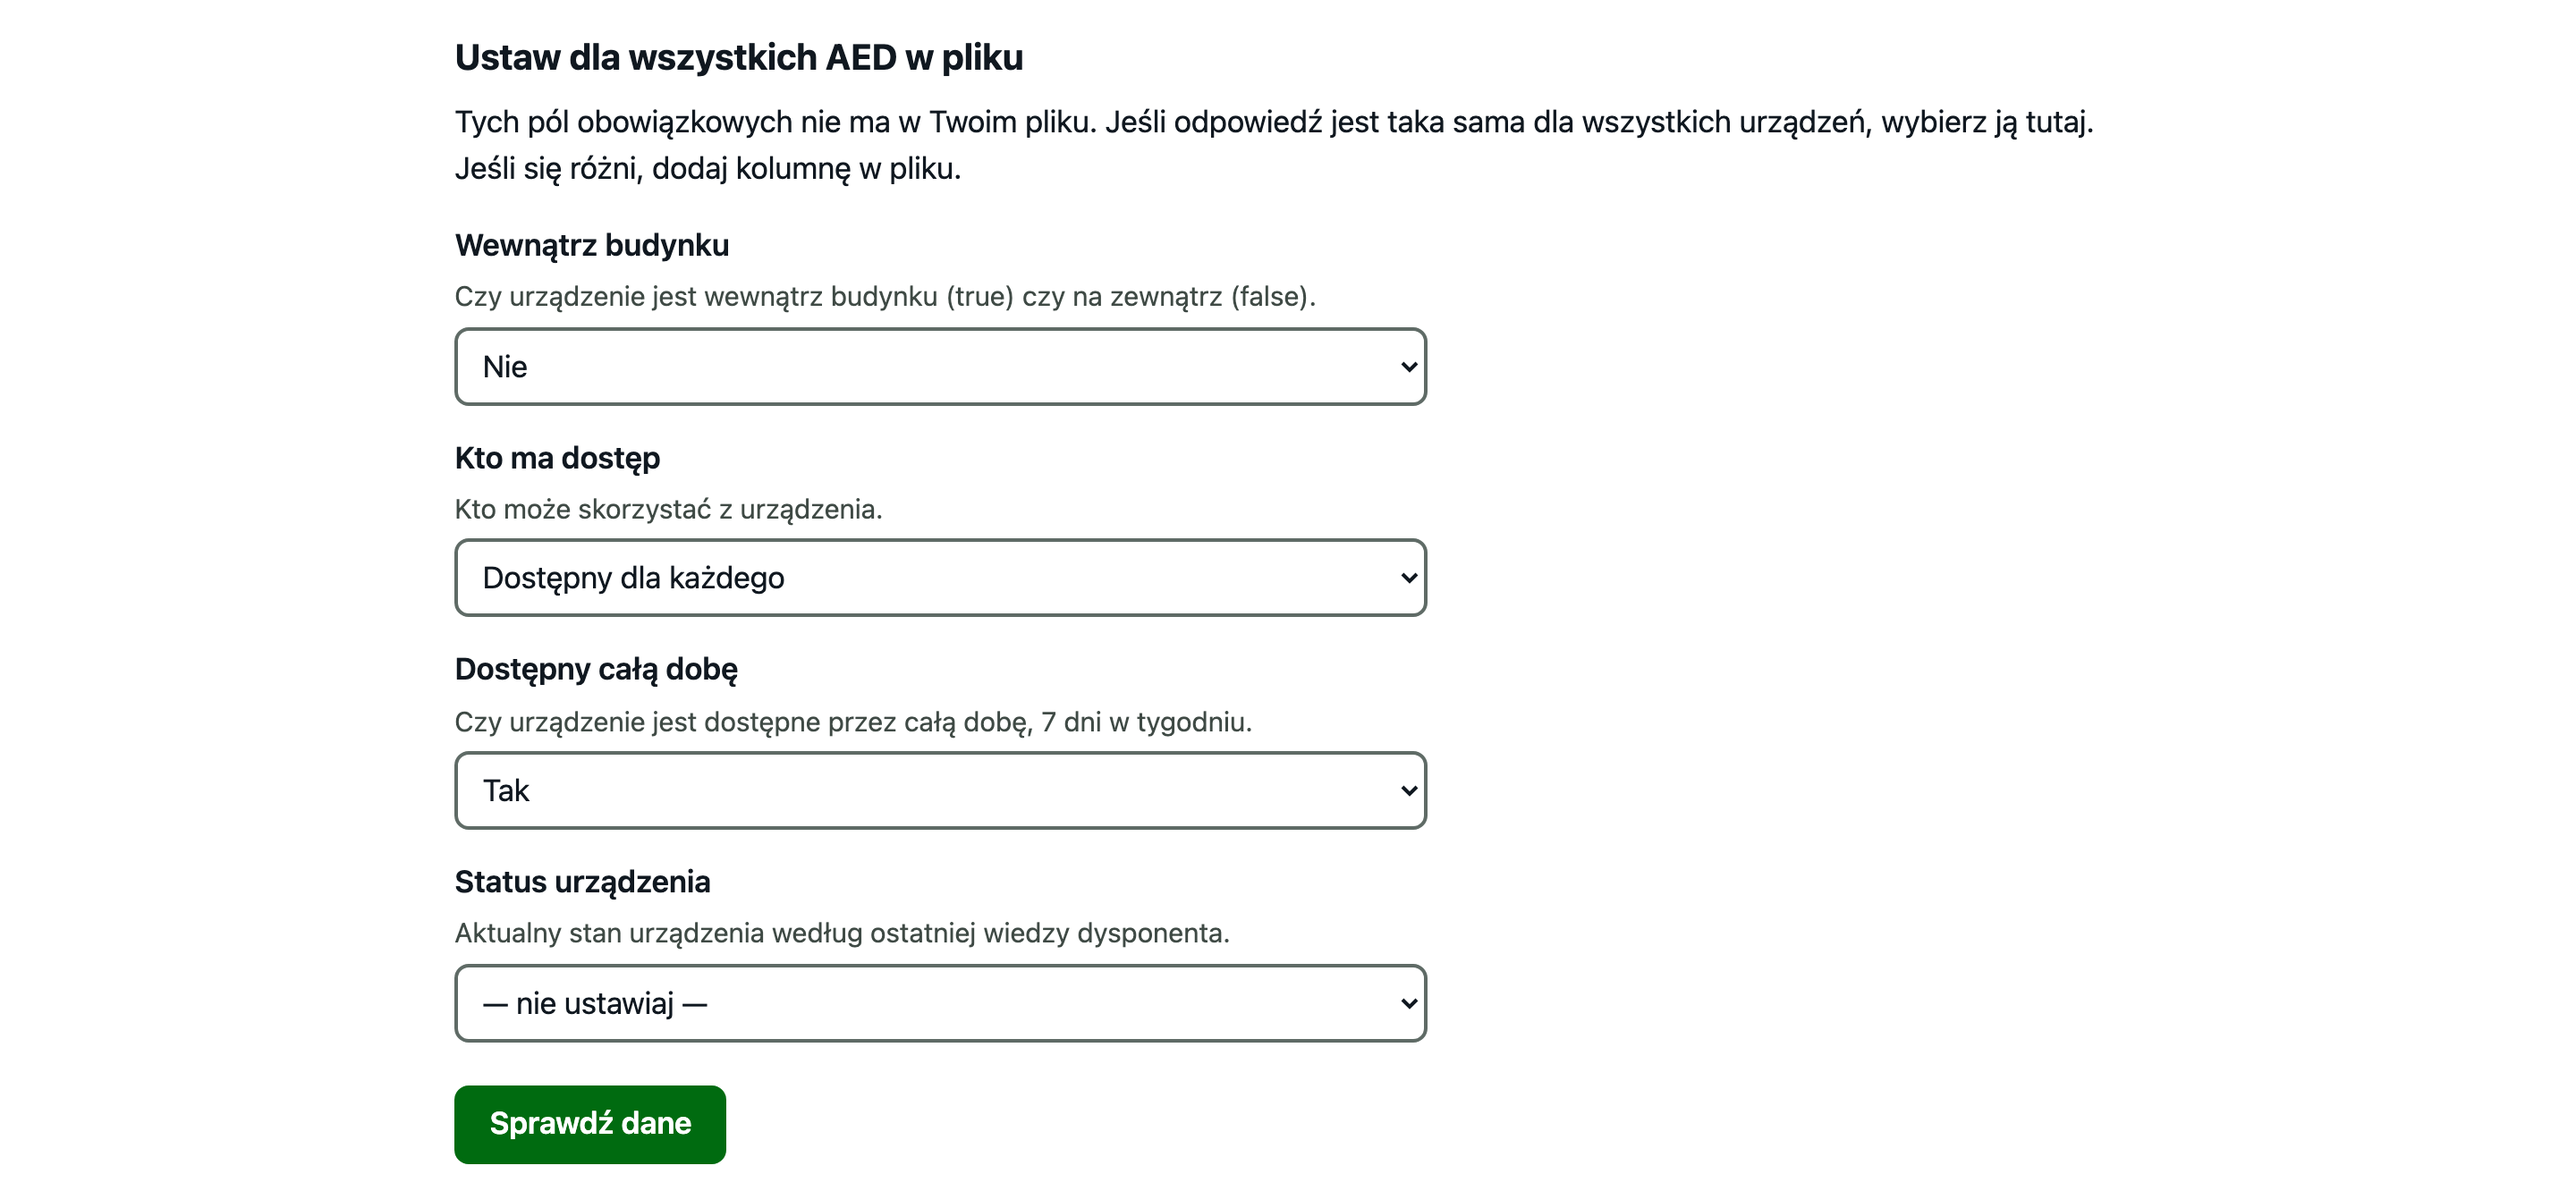
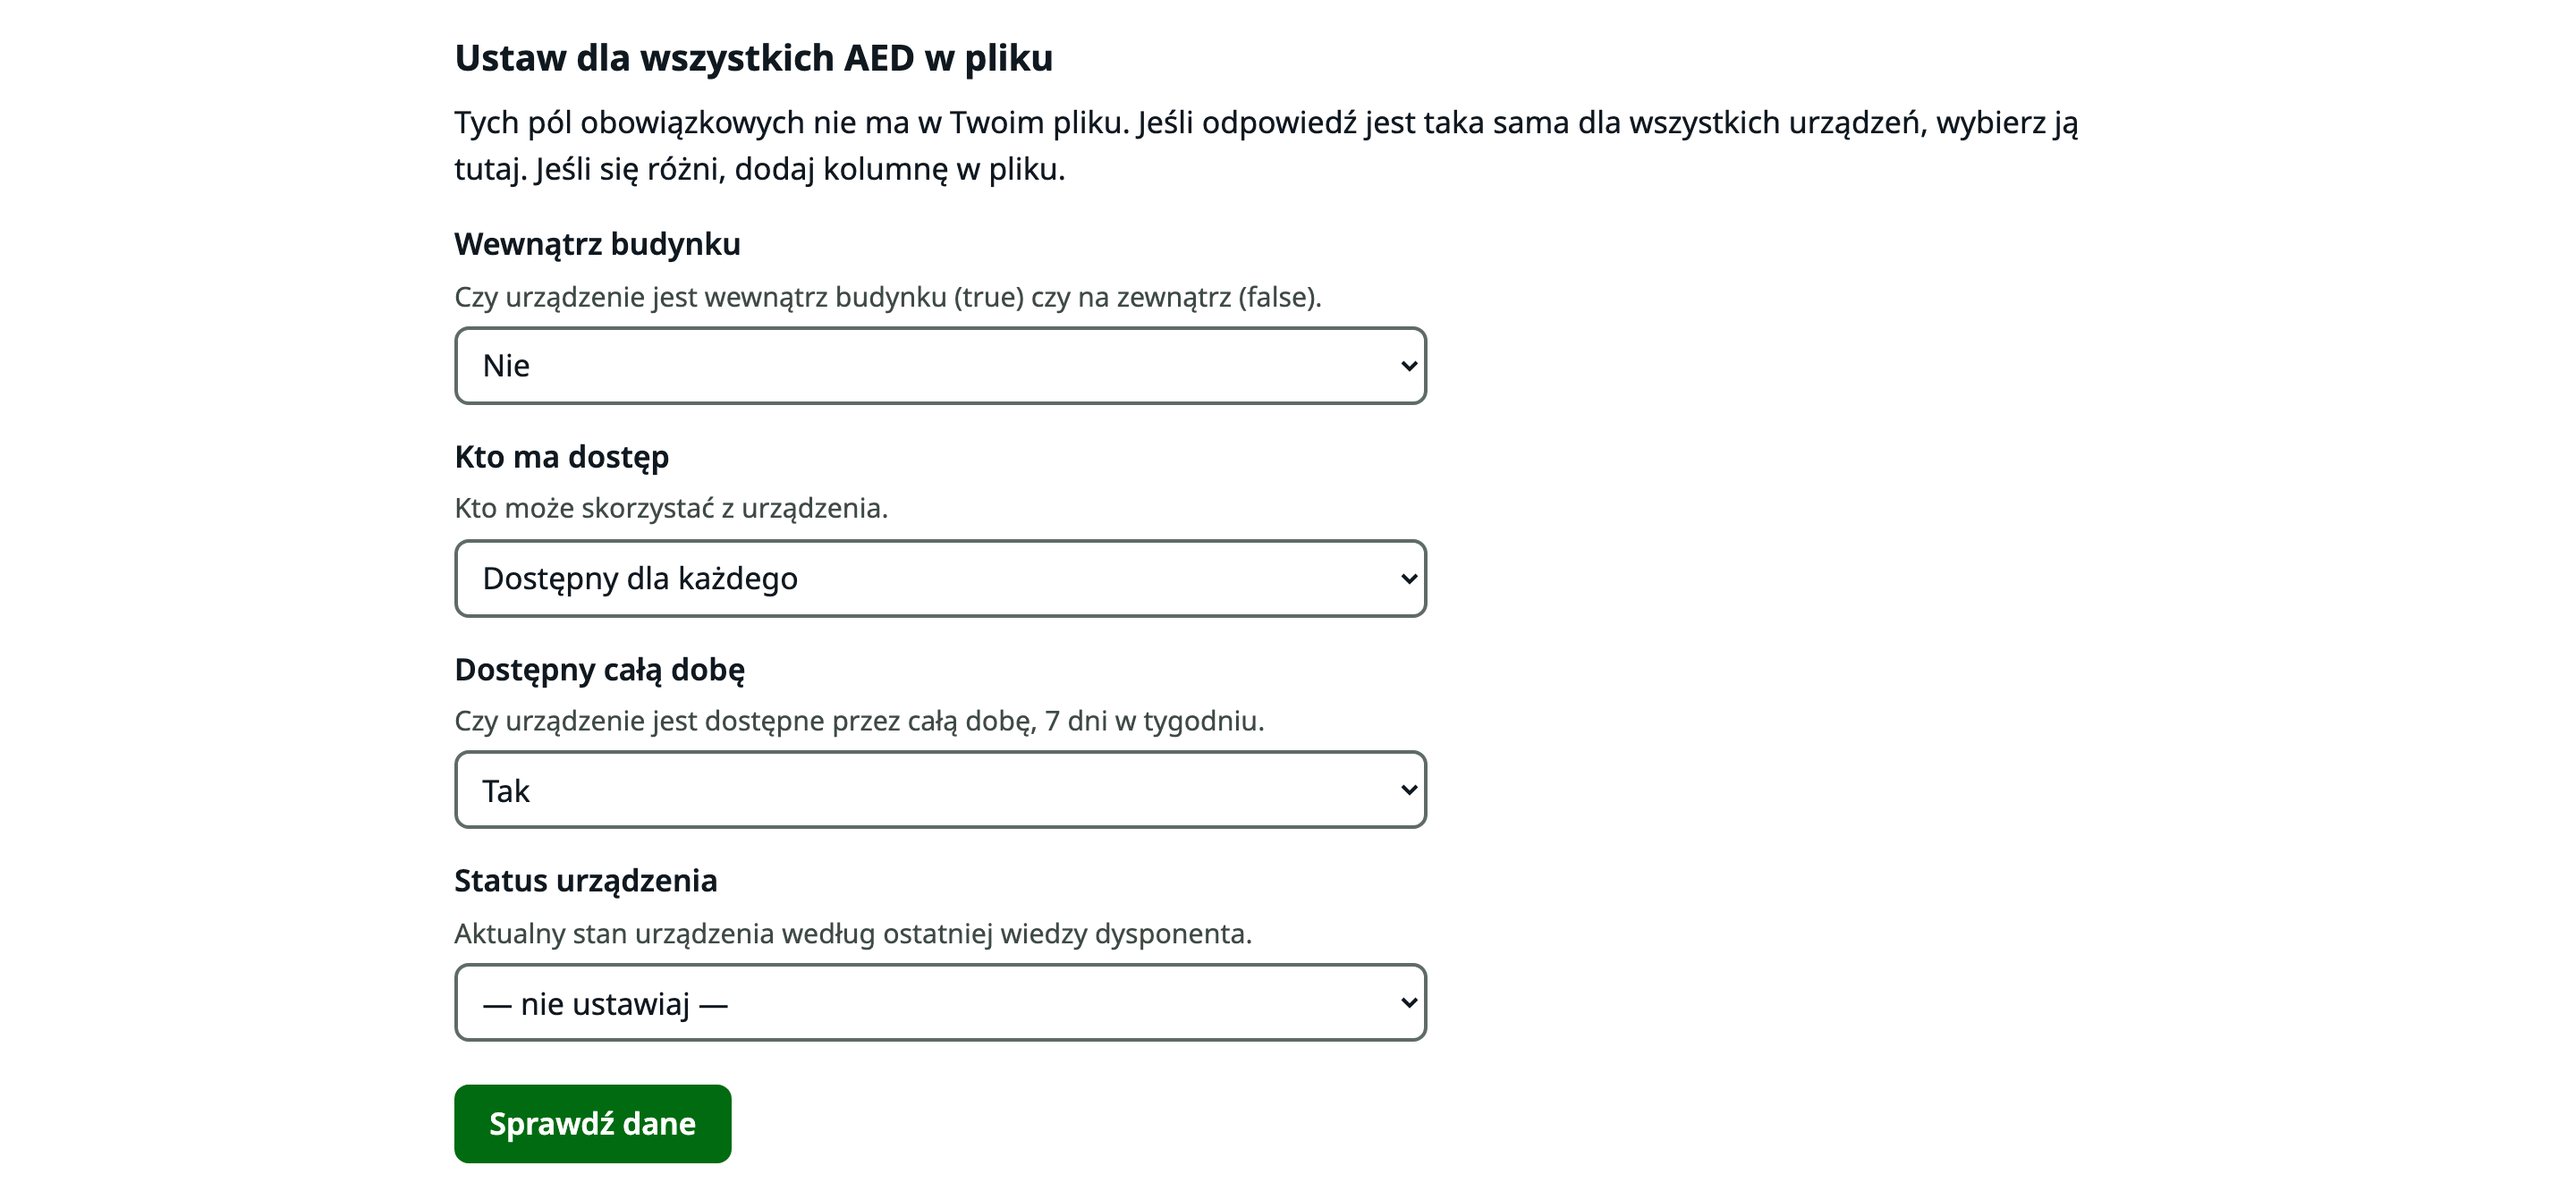
JURY.md: przebieg kontrolny jak juror (linki, demo, krok 0, pokaz scalania); poprawki: BASE_URL i Python 3.12 w kroku 0, nowe UI (nawigacja, Wykaz AED w kroku 3, /dane), ponowne wartości stałe w 1.9; zrzuty odświeżone + 10-mapa, 10-dane

diff --git a/prezentacja/zrzuty/zrob_zrzuty_strony.py b/prezentacja/zrzuty/zrob_zrzuty_strony.py
@@ -1,0 +1,39 @@
+"""E1: zrzuty stron dla odbiorców (/mapa, /dane) z publicznego demo. Niczego nie publikuje.
+
+    /tmp/pw/bin/python prezentacja/zrzuty/zrob_zrzuty_strony.py [--url https://tuaed.wkrynski.dev]
+"""
+
+from __future__ import annotations
+
+import argparse
+import sys
+from pathlib import Path
+
+from playwright.sync_api import sync_playwright
+
+sys.path.insert(0, str(Path(__file__).resolve().parent))
+from zrob_zrzuty import Zrzuty  # noqa: E402
+
+
+def main():
+    ap = argparse.ArgumentParser()
+    ap.add_argument("--url", default="https://tuaed.wkrynski.dev")
+    baza = ap.parse_args().url.rstrip("/")
+    with sync_playwright() as pw:
+        przegl = pw.chromium.launch(args=["--lang=pl-PL"])
+        page = przegl.new_context(viewport={"width": 1440, "height": 900}, locale="pl-PL", device_scale_factor=2).new_page()
+        z = Zrzuty(page)
+        page.goto(baza + "/mapa")
+        page.locator(".leaflet-marker-icon, .marker-cluster").first.wait_for(timeout=60_000)
+        page.wait_for_timeout(1500)
+        z.zrob("10-mapa", pelna=False)
+        page.goto(baza + "/dane")
+        page.get_by_role("heading", name="Zbiory dostawców").wait_for(timeout=60_000)
+        page.wait_for_timeout(1500)
+        z.zrob("10-dane", pelna=False)
+        przegl.close()
+    print("zrzuty:", z.zapisane)
+
+
+if __name__ == "__main__":
+    main()

diff --git a/JURY.md b/JURY.md
@@ -12,12 +12,15 @@ telefon (`-320.png`). Niżej podajemy wersję 1440.
 
 ## 0. Przygotowanie (tylko jeśli demo nie działa)
 
-1. Zainstaluj Dockera i sklonuj repo: `git clone https://github.com/LastMinuteGameStudio/hacknation`.
-2. `cd hacknation/app && cp .env.example .env && docker compose -f docker-compose.yml -f docker-compose.dev.yml up --build`
-3. Otwórz http://localhost:8000. W dalszych krokach zamiast `https://tuaed.wkrynski.dev` wpisuj
-   `http://localhost:8000`.
-4. Testy automatyczne (opcjonalnie): `cd app/backend && python -m venv .venv && .venv/bin/pip install -r requirements.txt && .venv/bin/python -m pytest -q`
-   Wynik: **222 passed**, w tym testy na 10 prawdziwych i syntetycznych plikach dysponentów.
+1. Zainstaluj Dockera i sklonuj repo: `git clone --depth 1 https://github.com/LastMinuteGameStudio/hacknation`.
+2. `cd hacknation/app && cp .env.example .env`, a potem w `.env` ustaw `BASE_URL=http://localhost:8000`. Bez tej
+   zmiany linki do opublikowanych plików wskazywałyby demo.
+3. `docker compose -f docker-compose.yml -f docker-compose.dev.yml up --build -d` (pierwsza budowa trwa kilka minut).
+4. Otwórz http://localhost:8000. W dalszych krokach zamiast `https://tuaed.wkrynski.dev` wpisuj
+   `http://localhost:8000`. Mapa i agregat lokalnie zawierają tylko zbiory wgrane na tym komputerze.
+5. Testy automatyczne (opcjonalnie, **Python 3.12**; na starszym Pythonie nie zainstaluje się sterownik bazy):
+   `cd app/backend && python3.12 -m venv .venv && .venv/bin/pip install -r requirements.txt && .venv/bin/python -m pytest -q`
+   Wynik: **223 passed**, w tym testy na 10 prawdziwych i syntetycznych plikach dysponentów.
 
 ## 1. Prototyp od początku do końca (ok. 5 minut)
 
@@ -33,18 +36,18 @@ Inne pliki do wypróbowania: [krosno.csv](https://raw.githubusercontent.com/Last
 
 | # | Co zrobić | Co powinno być widać | Bez demo |
 |---|---|---|---|
-| 1.1 | Otwórz https://tuaed.wkrynski.dev | Strona startowa: 3 kroki, szablony CSV i XLSX do pobrania, przycisk „Zacznij” | [09-start](prezentacja/zrzuty/09-start-1440.png) |
+| 1.1 | Otwórz https://tuaed.wkrynski.dev | Strona startowa „Opublikuj dane o defibrylatorach na dane.gov.pl, w 3 prostych krokach”: szablony CSV i XLSX do pobrania, przycisk „Zacznij”. U góry nawigacja: „Opublikuj dane”, „Mapa AED”, „Zebrane dane” | [09-start](prezentacja/zrzuty/09-start-1440.png) |
 | 1.2 | „Zacznij”. Wpisz nazwę, np. `Urząd Miejski w Przemyślu (jury)`, typ „Jednostka samorządu terytorialnego”, „Dalej: dane” | Formularz dysponenta. Telefon i e-mail są opcjonalne i oznaczone „nie publikujemy” | [09-krok1-dysponent](prezentacja/zrzuty/09-krok1-dysponent-1440.png) |
 | 1.3 | Wybierz pobrany `przemysl_2024.csv`, „Wgraj plik” | Tabela „Dopasuj kolumny”: dla 17 kolumn podpowiedź pola z pewnością. `geometry` → współrzędne, a 8 kolumn CMS (opis, galeria, linki…) → „nie importuj” | [09-krok2-mapowanie](prezentacja/zrzuty/09-krok2-mapowanie-1440.png), [cała tabela](prezentacja/zrzuty/09-krok2-mapowanie-tabela-1440.png) |
 | 1.4 | W „Ustaw dla wszystkich AED w pliku” wybierz: wewnątrz budynku „Nie”, dostęp „Dostępny dla każdego”, całą dobę „Tak” | Pola obowiązkowe, których nie ma w pliku, ustawia się raz dla całego pliku | [09-krok2-wartosci-stale](prezentacja/zrzuty/09-krok2-wartosci-stale-1440.png) |
 | 1.5 | „Sprawdź dane” | „Do publikacji: 21, Błędy: 0”, ostrzeżenia zbiorcze z opisem po polsku (np. „Cecha ulicy w 18 wierszach”). Rozwiń „Podgląd wyniku” | [09-krok2-walidacja](prezentacja/zrzuty/09-krok2-walidacja-1440.png), [podgląd](prezentacja/zrzuty/09-krok2-podglad-wyniku-1440.png) |
-| 1.6 | „Dalej: publikacja”, zaznacz zgodę na CC0 1.0, „Opublikuj” | Stały adres `…/d/<slug>.csv`, prywatny link do aktualizacji i instrukcja dodania zasobu na dane.gov.pl z „Aktualizacją automatyczną”. Linki JSON i CSVW | [09-krok3-zgoda](prezentacja/zrzuty/09-krok3-zgoda-1440.png), [09-krok3-publikacja](prezentacja/zrzuty/09-krok3-publikacja-1440.png) |
-| 1.7 | Kliknij „Dane w CSV” | Plik CSV: przecinki, UTF-8, kolumny wzorcowego zakresu v0.5 w stałej kolejności, telefon i e-mail usunięte | [08-csv-w-przegladarce](prezentacja/zrzuty/08-csv-w-przegladarce-1440.png) |
+| 1.6 | „Dalej: publikacja”, zaznacz zgodę na CC0 1.0, „Opublikuj” | Stały adres `…/d/<slug>.csv`, prywatny link do aktualizacji, instrukcja dodania zasobu na dane.gov.pl („link”, „Aktualizacja automatyczna: dziennie”, pole **„Wykaz AED”**, licencja CC0 1.0), „Metadane zbioru do skopiowania” (tytuł, opis, słowa kluczowe, kategoria Zdrowie) i linki JSON i CSVW | [09-krok3-zgoda](prezentacja/zrzuty/09-krok3-zgoda-1440.png), [09-krok3-publikacja](prezentacja/zrzuty/09-krok3-publikacja-1440.png) |
+| 1.7 | Kliknij „Dane w CSV” (przeglądarka otworzy albo pobierze plik) | Plik CSV: przecinki, UTF-8, kolumny wzorcowego zakresu v0.5 w stałej kolejności, telefon i e-mail usunięte | [08-csv-w-przegladarce](prezentacja/zrzuty/08-csv-w-przegladarce-1440.png) |
 | 1.8 | Otwórz prywatny link do aktualizacji (skopiuj go z kroku 1.6) | Strona „Wgraj nową wersję danych” i sekcja „Źródło automatyczne” | [09-edycja-zrodlo-automatyczne](prezentacja/zrzuty/09-edycja-zrodlo-automatyczne-1440.png) |
-| 1.9 | Wgraj [przemysl.csv](https://raw.githubusercontent.com/LastMinuteGameStudio/hacknation/main/app/backend/tests/fixtury/przemysl.csv) (eksport z 2026 r., inny format geometrii), sprawdź i opublikuj | Mapowanie podpowiada się samo, a publikacja podmienia dane **pod tym samym adresem** z **tymi samymi `id_aed`** | [przed](prezentacja/zrzuty/09-sync-0-csv-przed-1440.png) i [po](prezentacja/zrzuty/09-sync-4-csv-po-1440.png) (te same `id_aed`) |
+| 1.9 | Wgraj [przemysl.csv](https://raw.githubusercontent.com/LastMinuteGameStudio/hacknation/main/app/backend/tests/fixtury/przemysl.csv) (eksport z 2026 r., inny format geometrii). Ustaw ponownie trzy wartości z kroku 1.4, bo strona ich nie pamięta. Potem „Sprawdź dane”, zgoda i „Opublikuj” | Mapowanie kolumn podpowiada się samo, a publikacja podmienia dane **pod tym samym adresem** z **tymi samymi `id_aed`** | [przed](prezentacja/zrzuty/09-sync-0-csv-przed-1440.png) i [po](prezentacja/zrzuty/09-sync-4-csv-po-1440.png) (te same `id_aed`) |
 | 1.10 | (opcjonalnie) W „Źródło automatyczne” wklej adres pliku na stronie urzędu i „Włącz i pobierz teraz” | Stan „Aktywna”, ZSYNCHRONIZOWANO. Zmiana kolumn w źródle wstrzymuje synchronizację i nie psuje danych | [ustawienie](prezentacja/zrzuty/09-sync-1-ustawienie-1440.png), [aktywna](prezentacja/zrzuty/09-sync-2-aktywna-1440.png), [nowy format](prezentacja/zrzuty/09-sync-3-zsynchronizowano-1440.png), [wstrzymana](prezentacja/zrzuty/09-sync-5-wstrzymana-1440.png) |
-| 1.11 | Otwórz https://tuaed.wkrynski.dev/mapa | Mapa AED z całej Polski z popupem szczegółów. Wybór: wszystkie AED albo bez OpenStreetMap | [mapa](prezentacja/audyt/zrzuty/mapa-popup-1440.png), [telefon](prezentacja/audyt/zrzuty/mapa-320.png) |
-| 1.12 | Otwórz https://tuaed.wkrynski.dev/dane | Zebrane dane: liczba AED według pochodzenia, tabela z wyszukiwaniem, „Zbiory dostawców” i pliki CSV i GeoJSON do pobrania | [dane](prezentacja/audyt/zrzuty/dane-1440.png), [telefon](prezentacja/audyt/zrzuty/dane-karty-320.png) |
+| 1.11 | Otwórz https://tuaed.wkrynski.dev/mapa | Mapa AED z całej Polski z popupem szczegółów. Wybór: wszystkie AED albo bez OpenStreetMap | [10-mapa](prezentacja/zrzuty/10-mapa-1440.png), [telefon](prezentacja/zrzuty/10-mapa-320.png), [popup](prezentacja/audyt/zrzuty/mapa-popup-1440.png) |
+| 1.12 | Otwórz https://tuaed.wkrynski.dev/dane | „Zebrane dane o AED”: „Zbiory dostawców” (każdy z plikami CSV, JSON, GeoJSON i CSVW), liczba AED według pochodzenia, tabela „Wszystkie AED” z wyszukiwaniem i pliki zbiorcze | [10-dane](prezentacja/zrzuty/10-dane-1440.png), [telefon](prezentacja/zrzuty/10-dane-320.png) |
 
 Zbiór na prezentację z włączoną synchronizacją: https://tuaed.wkrynski.dev/d/kznsks42.csv. Zbiory, które
 opublikujecie, będą widoczne w agregacie, dlatego prosimy o dopisek „(jury)” w nazwie dysponenta.
@@ -166,8 +169,9 @@ Dane testowe: trzech dostawców, każdy z zasobem-linkiem z „Aktualizacją aut
 
 **Bez uruchamiania portalu (pokaz scalania, ok. 1 minuta):**
 
-1. `git clone https://github.com/LastMinuteGameStudio/hacknation && cd hacknation && git checkout portal-aed && cd portal`
-2. `pip install openpyxl && python tuaed_pokaz_scalania.py --offline` (Python ≥ 3.8, bez Django i bazy). Bez
+1. `git clone --depth 1 -b portal-aed https://github.com/LastMinuteGameStudio/hacknation hacknation-portal && cd hacknation-portal/portal`
+2. `python3 -m venv .venv && .venv/bin/pip install openpyxl && .venv/bin/python tuaed_pokaz_scalania.py --offline`
+   (Python ≥ 3.8, bez Django i bazy). Bez
    `--offline` skrypt pobiera wykazy Przemyśla i Krosna z demo. Skrypt używa tego samego kodu, który wywołuje
    zadanie portalu ([mcod/resources/aed/](https://github.com/LastMinuteGameStudio/hacknation/blob/portal-aed/portal/mcod/resources/aed/)).
 3. Oczekiwany wynik: **46 AED z 4 wykazów, licencja CC BY 4.0.**
@@ -191,3 +195,20 @@ Dane testowe: trzech dostawców, każdy z zasobem-linkiem z „Aktualizacją aut
 - Dane OpenStreetMap mają licencję ODbL, więc agregat ma też wersję bez OSM.
 - Demo działa na tunelu z komputera zespołu. Jeśli jest niedostępne, prosimy o drogę „bez demo” albo krok 0.
 - AED w pojazdach są poza zakresem.
+
+## Przebieg kontrolny (22.11.2026, ścieżka D)
+
+Instrukcję przeszliśmy jak juror. Sprawdzone:
+- **Linki:** wszystkie 75 linków w tym pliku (pliki na `main` i `portal-aed`, adresy raw, adresy demo) działają.
+  Ścieżki demo z sekcji 2 (`/d/…`, `/szablon.*`, `/api/schemat`, `/docs`, `/mapa`, `/dane`) dają HTTP 200.
+- **Sekcja 1:** przejście automatem (Playwright) z etykietami jak w tabeli, na lokalnym stacku z kroku 0: 23 z 24
+  oczekiwań spełnione. Jedyna różnica: przy aktualizacji (1.9) strona nie pamięta wartości z kroku 1.4, więc
+  w opisie kroku jest teraz polecenie, żeby ustawić je ponownie. Zrzuty kreatora odświeżone na demo
+  (nowa nawigacja, „Wykaz AED” i metadane w kroku 3), zrzuty mapy i `/dane` dodane.
+- **Krok 0:** świeży klon, `docker compose` z `.env.example`: działa. Dopisana zmiana `BASE_URL` (bez niej linki
+  wskazują demo). Testy: na Pythonie 3.12 **223 passed**. Na systemowym 3.9 nie instaluje się `psycopg-binary`,
+  stąd uwaga o wersji.
+- **Sekcja 2:** `DOWOD-URL.md` 21/21 dla `kznsks42`, agregat `/d/aed-polska.csv` ma 19 871 wierszy.
+- **Sekcja 3:** `python tuaed_pokaz_scalania.py` ze świeżego klonu `portal-aed`, online i `--offline`: **46 AED z 4
+  wykazów, 2 duplikaty, 2 wykazy pominięte, CC BY 4.0**, zgodnie z opisem. Portalu w Dockerze jeszcze nie
+  uruchamialiśmy, więc kroki 1–5 sekcji 3 i ich zrzuty czekają.

diff --git a/prezentacja/zrzuty/README.md b/prezentacja/zrzuty/README.md
@@ -21,6 +21,8 @@ odróżnić te zbiory w agregacie. Każdy zrzut jest w dwóch szerokościach: `-
 | `09-edycja-zrodlo-automatyczne-sekcja` | 9 | Sama sekcja „Źródło automatyczne”: adres pliku na stronie urzędu i częstotliwość pobierania. |
 | `08-csv-w-przegladarce` | 8 | Wynikowy CSV pobrany bez logowania: nagłówki HTTP (`text/csv; charset=utf-8`, CORS `*`) i pierwsze wiersze w zakresie v0.5. |
 | `10-docs-api` | 10 | Dokumentacja API (OpenAPI, `/docs`) dla odbiorców i integratorów. |
+| `10-mapa` | 10 | Mapa AED (`/mapa`): wszystkie AED albo bez OpenStreetMap, liczby według pochodzenia. Skrypt `zrob_zrzuty_strony.py` (nic nie publikuje). |
+| `10-dane` | 10 | „Zebrane dane” (`/dane`): zbiory dostawców z plikami CSV, JSON, GeoJSON i CSVW. |
 
 ### Synchronizacja z URL źródła (S1), zbiór `kznsks42`
 
@@ -69,7 +71,8 @@ python3 prezentacja/zrzuty/sprawdz_url.py https://tuaed.wkrynski.dev/d/kznsks42.
 | Slug | Rola | Do posprzątania? |
 |---|---|---|
 | `kznsks42` | Zbiór na prezentację: synchronizacja z `demo-zrodlo` włączona, zrzuty `09-sync-*`, `DOWOD-URL.md` | nie |
-| `gh4e9uju` | Ostatnie uruchomienie `zrob_zrzuty.py` (zrzuty kreatora po poprawkach B i C, `08-csv-w-przegladarce`) | tak, po prezentacji |
+| `qps44qst` | Ostatnie uruchomienie `zrob_zrzuty.py` (zrzuty kreatora z nową nawigacją i „Wykaz AED” w kroku 3) | tak, po prezentacji |
+| `gh4e9uju` | Wcześniejsze uruchomienie `zrob_zrzuty.py` | tak |
 | `cfseuu37`, `r9ba4cvw` | Próbne przebiegi skryptu | tak |
 
 Wszystkie mają dysponenta „Urząd Miejski w Przemyślu (demo)”. Sprzątanie należy do Grzana. Skrypty niczego nie usuwają.

diff --git a/prezentacja/zrzuty/DOWOD-URL.md b/prezentacja/zrzuty/DOWOD-URL.md
@@ -1,6 +1,6 @@
 # Dowód: plik pod stałym URL pobierany tak jak przez dane.gov.pl
 
-Wygenerowane przez `prezentacja/zrzuty/sprawdz_url.py` (2026-11-22 00:36 UTC). Zbiór demo z dysponentem „Urząd Miejski w Przemyślu (demo)”, opublikowany przez `zrob_zrzuty.py` z pliku `przemysl_2024.csv`.
+Wygenerowane przez `prezentacja/zrzuty/sprawdz_url.py` (2026-11-22 06:21 UTC). Zbiór demo z dysponentem „Urząd Miejski w Przemyślu (demo)”, opublikowany przez `zrob_zrzuty.py` z pliku `przemysl_2024.csv`.
 
 ## Zapytanie
 
@@ -18,7 +18,7 @@ content-type: text/csv; charset=utf-8
 content-disposition: inline; filename="aed-kznsks42.csv"
 access-control-allow-origin: *
 cache-control: max-age=14400
-last-modified: Sun, 22 Nov 2026 00:36:10 GMT
+last-modified: Sun, 22 Nov 2026 06:21:55 GMT
 ```
 
 ## Pierwsze wiersze (surowo, `\r\n` na końcu linii)
